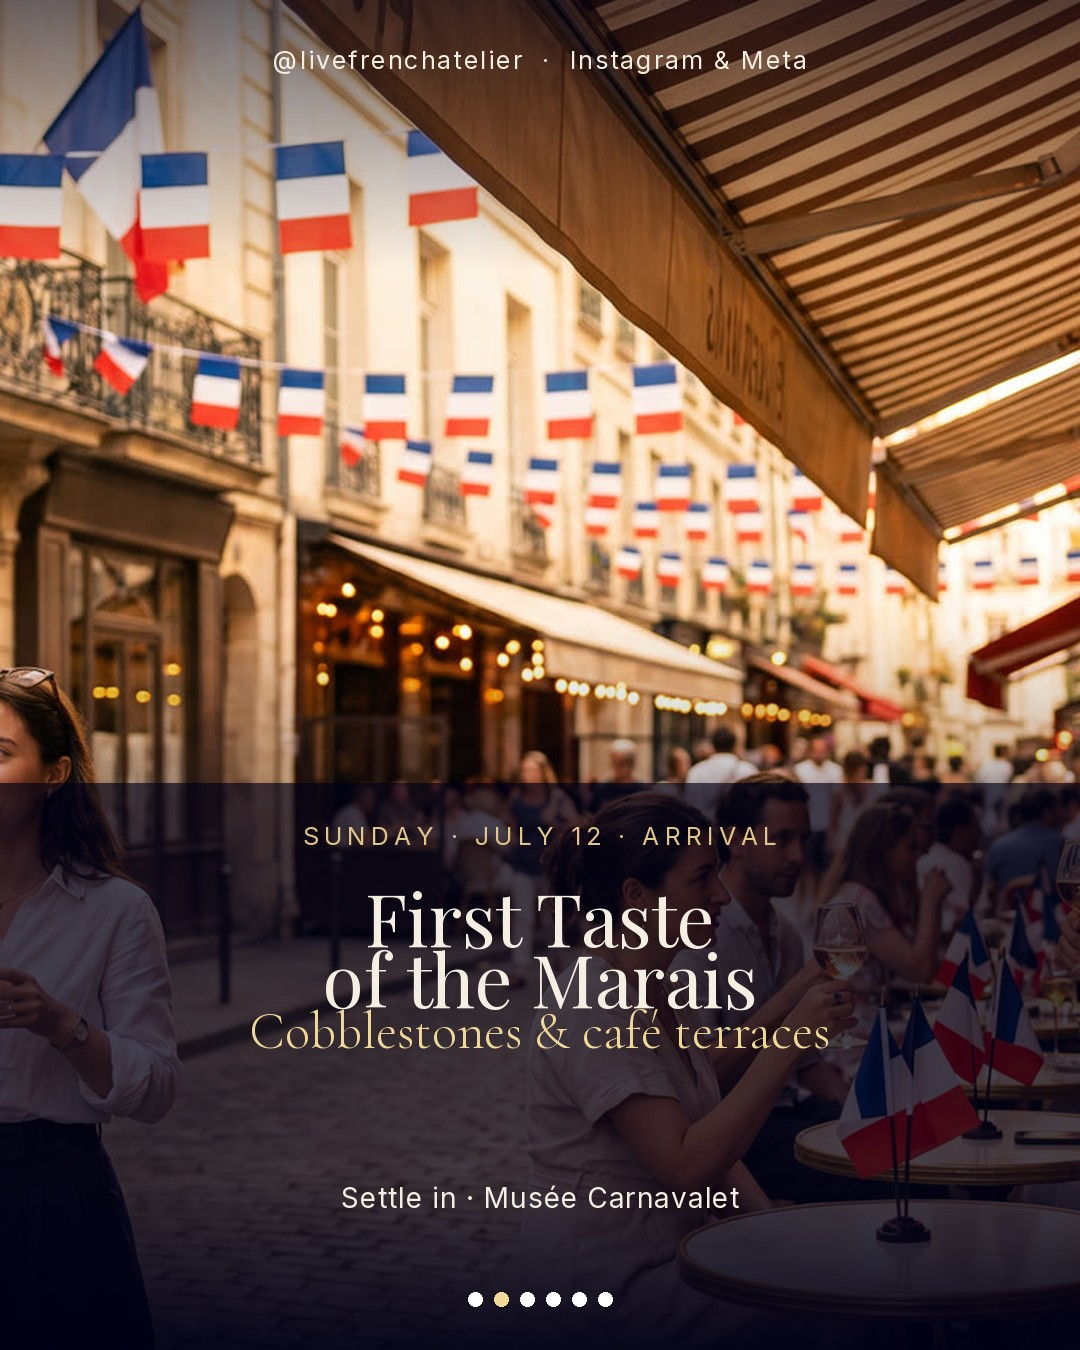
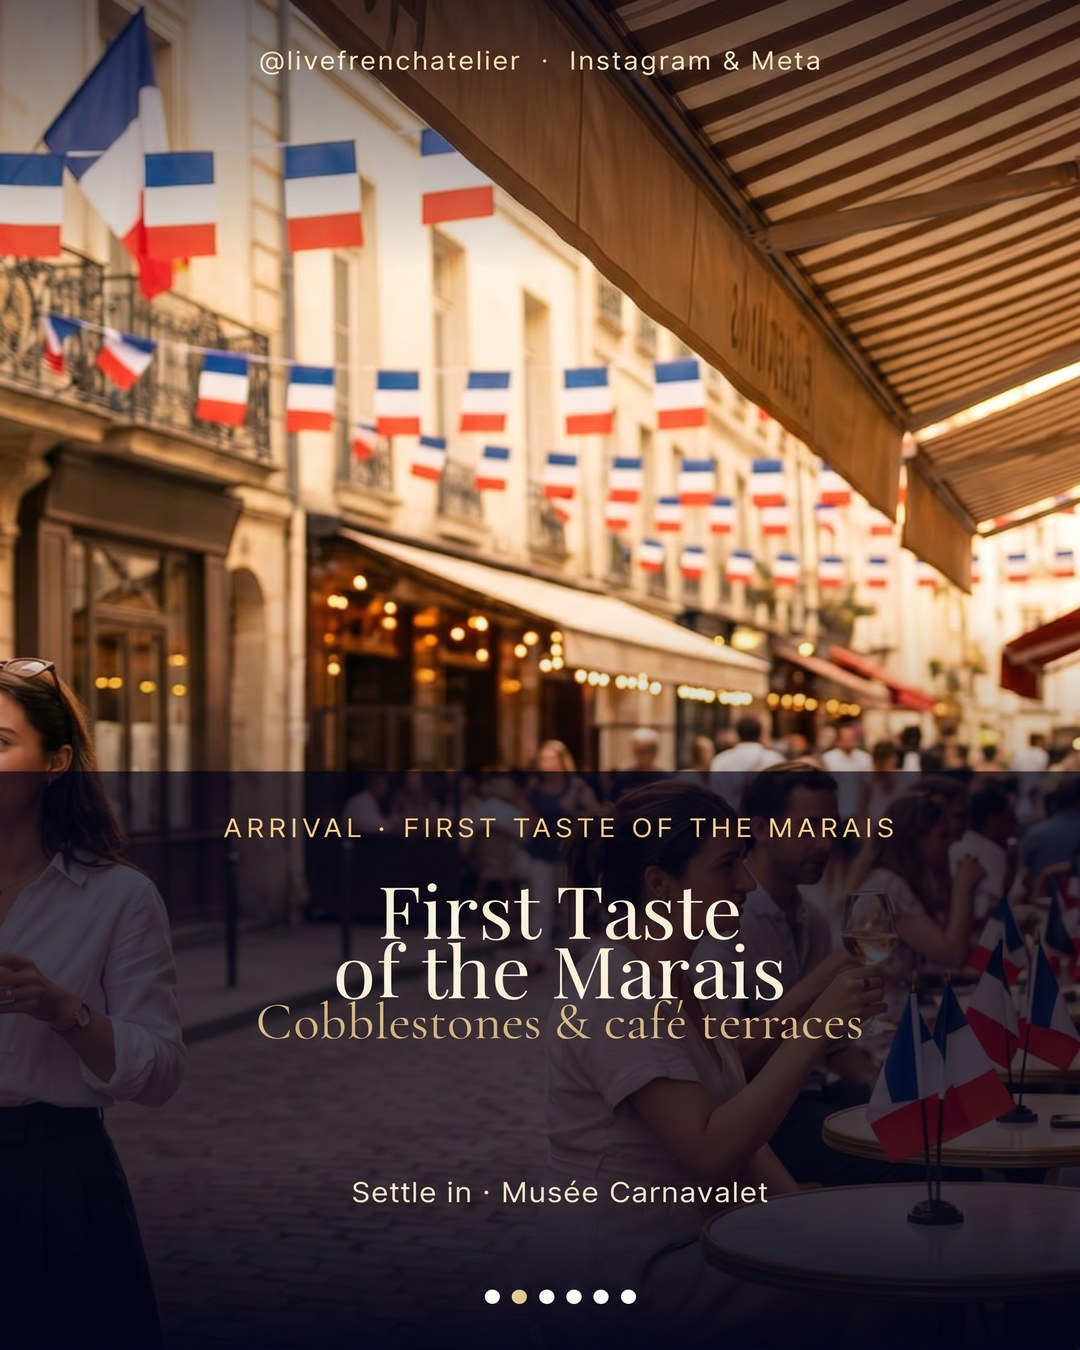
AdKit carousel: enlarge slides + add full-size lightbox for readability; fix slide 2 (drop wrong Jul 12 date) and slide 6 (upload flow)

diff --git a/adkit.html b/adkit.html
@@ -112,11 +112,31 @@
   .strip{display:flex;gap:14px;overflow-x:auto;padding-bottom:10px;scroll-snap-type:x mandatory}
   .strip::-webkit-scrollbar{height:8px}
   .strip::-webkit-scrollbar-thumb{background:var(--navy-line);border-radius:8px}
-  .strip .slide{flex:none;width:200px;scroll-snap-align:start;border-radius:14px;overflow:hidden;
-    border:1px solid var(--navy-line);position:relative}
+  .strip .slide{flex:none;width:340px;max-width:80vw;scroll-snap-align:start;border-radius:16px;overflow:hidden;
+    border:1px solid var(--navy-line);position:relative;cursor:zoom-in;transition:transform .25s var(--ease),border-color .25s var(--ease)}
+  .strip .slide:hover{transform:translateY(-4px);border-color:rgba(224,198,140,.5)}
   .strip .slide img{width:100%;display:block;aspect-ratio:4/5;object-fit:cover}
-  .strip .slide .num{position:absolute;top:8px;left:8px;font-family:var(--mono);font-size:11px;color:var(--navy);
-    background:var(--gold-bright);border-radius:6px;padding:3px 7px;font-weight:600}
+  .strip .slide .num{position:absolute;top:10px;left:10px;font-family:var(--mono);font-size:12px;color:var(--navy);
+    background:var(--gold-bright);border-radius:6px;padding:3px 8px;font-weight:600;z-index:2}
+  .strip .slide .zoom{position:absolute;bottom:10px;right:10px;display:flex;align-items:center;gap:5px;
+    font-family:var(--mono);font-size:10.5px;letter-spacing:.04em;color:#fff;background:rgba(5,5,15,.62);
+    backdrop-filter:blur(6px);border:1px solid rgba(255,255,255,.18);border-radius:8px;padding:5px 9px;z-index:2}
+  .strip .slide .zoom svg{width:12px;height:12px}
+  @media(max-width:560px){.strip .slide{width:280px}}
+  /* carousel lightbox */
+  .lb{position:fixed;inset:0;z-index:200;display:none;align-items:center;justify-content:center;
+    background:rgba(2,2,12,.92);backdrop-filter:blur(8px);padding:24px}
+  .lb.open{display:flex}
+  .lb img{max-width:min(92vw,560px);max-height:90vh;width:auto;height:auto;border-radius:14px;
+    box-shadow:0 30px 80px -20px rgba(0,0,0,.8);border:1px solid rgba(224,198,140,.3)}
+  .lb .lb-close{position:absolute;top:20px;right:24px;width:42px;height:42px;border-radius:50%;border:0;cursor:pointer;
+    background:rgba(255,255,255,.1);color:#fff;font-size:22px;line-height:1;display:flex;align-items:center;justify-content:center}
+  .lb .lb-close:hover{background:var(--rouge)}
+  .lb .lb-nav{position:absolute;top:50%;transform:translateY(-50%);width:48px;height:48px;border-radius:50%;border:0;cursor:pointer;
+    background:rgba(255,255,255,.1);color:#fff;font-size:24px;display:flex;align-items:center;justify-content:center}
+  .lb .lb-nav:hover{background:rgba(224,198,140,.25)}
+  .lb .lb-prev{left:24px}.lb .lb-next{right:24px}
+  .lb .lb-count{position:absolute;bottom:22px;left:0;right:0;text-align:center;font-family:var(--mono);font-size:12px;color:rgba(255,255,255,.65)}
 
   /* popup feature row */
   .feature{display:grid;grid-template-columns:1.05fr 1fr;gap:36px;align-items:center;
@@ -294,13 +314,14 @@
       <h2>Carousel</h2>
       <span class="fmt">4:5 · 1080×1350 · 6 slides · JPG</span>
     </div>
+    <p class="reveal" style="font-size:13.5px;color:rgba(243,239,233,.6);margin:-10px 0 18px;font-family:var(--mono);letter-spacing:.03em">Tap any slide to view it full-size &amp; readable.</p>
     <div class="strip reveal">
-      <div class="slide"><span class="num">1</span><img src="assets/carousel-1.jpg?v=4" alt="Carousel slide 1 — Win a free flight"></div>
-      <div class="slide"><span class="num">2</span><img src="assets/carousel-2.jpg?v=4" alt="Carousel slide 2 — Arrival in the Marais"></div>
-      <div class="slide"><span class="num">3</span><img src="assets/carousel-3.jpg?v=4" alt="Carousel slide 3 — Seine sunset and fireworks"></div>
-      <div class="slide"><span class="num">4</span><img src="assets/carousel-4.jpg?v=4" alt="Carousel slide 4 — Bastille Day air shows"></div>
-      <div class="slide"><span class="num">5</span><img src="assets/carousel-5.jpg?v=4" alt="Carousel slide 5 — Montmartre and the Impressionists"></div>
-      <div class="slide"><span class="num">6</span><img src="assets/carousel-6.jpg?v=4" alt="Carousel slide 6 — How to enter"></div>
+      <div class="slide" onclick="openLB(0)"><span class="num">1</span><span class="zoom"><svg viewBox="0 0 24 24" fill="none" stroke="currentColor" stroke-width="2.2" stroke-linecap="round"><circle cx="11" cy="11" r="7"/><path d="M21 21l-4.3-4.3M11 8v6M8 11h6"/></svg>Enlarge</span><img src="assets/carousel-1.jpg?v=5" alt="Carousel slide 1 — Win a free flight"></div>
+      <div class="slide" onclick="openLB(1)"><span class="num">2</span><span class="zoom"><svg viewBox="0 0 24 24" fill="none" stroke="currentColor" stroke-width="2.2" stroke-linecap="round"><circle cx="11" cy="11" r="7"/><path d="M21 21l-4.3-4.3M11 8v6M8 11h6"/></svg>Enlarge</span><img src="assets/carousel-2.jpg?v=5" alt="Carousel slide 2 — Arrival in the Marais"></div>
+      <div class="slide" onclick="openLB(2)"><span class="num">3</span><span class="zoom"><svg viewBox="0 0 24 24" fill="none" stroke="currentColor" stroke-width="2.2" stroke-linecap="round"><circle cx="11" cy="11" r="7"/><path d="M21 21l-4.3-4.3M11 8v6M8 11h6"/></svg>Enlarge</span><img src="assets/carousel-3.jpg?v=5" alt="Carousel slide 3 — Seine sunset and fireworks"></div>
+      <div class="slide" onclick="openLB(3)"><span class="num">4</span><span class="zoom"><svg viewBox="0 0 24 24" fill="none" stroke="currentColor" stroke-width="2.2" stroke-linecap="round"><circle cx="11" cy="11" r="7"/><path d="M21 21l-4.3-4.3M11 8v6M8 11h6"/></svg>Enlarge</span><img src="assets/carousel-4.jpg?v=5" alt="Carousel slide 4 — Bastille Day air shows"></div>
+      <div class="slide" onclick="openLB(4)"><span class="num">5</span><span class="zoom"><svg viewBox="0 0 24 24" fill="none" stroke="currentColor" stroke-width="2.2" stroke-linecap="round"><circle cx="11" cy="11" r="7"/><path d="M21 21l-4.3-4.3M11 8v6M8 11h6"/></svg>Enlarge</span><img src="assets/carousel-5.jpg?v=5" alt="Carousel slide 5 — Montmartre and the Impressionists"></div>
+      <div class="slide" onclick="openLB(5)"><span class="num">6</span><span class="zoom"><svg viewBox="0 0 24 24" fill="none" stroke="currentColor" stroke-width="2.2" stroke-linecap="round"><circle cx="11" cy="11" r="7"/><path d="M21 21l-4.3-4.3M11 8v6M8 11h6"/></svg>Enlarge</span><img src="assets/carousel-6.jpg?v=5" alt="Carousel slide 6 — How to enter"></div>
     </div>
     <div style="margin-top:20px">
       <a class="dlbtn" style="max-width:280px" href="assets/french_atelier_adkit.zip?v=4" download><svg viewBox="0 0 24 24" fill="none" stroke="currentColor" stroke-width="2.2" stroke-linecap="round"><path d="M12 3v12m0 0l-5-5m5 5l5-5M5 21h14"/></svg>Download all 6 slides</a>
@@ -425,6 +446,15 @@ Tag every frame on-screen: @livefrenchatelier</pre>
   </div>
 </footer>
 
+<!-- carousel lightbox -->
+<div class="lb" id="lb" role="dialog" aria-modal="true" aria-label="Carousel slide preview">
+  <button class="lb-close" aria-label="Close" onclick="closeLB()">&times;</button>
+  <button class="lb-nav lb-prev" aria-label="Previous slide" onclick="event.stopPropagation();stepLB(-1)">&#8249;</button>
+  <img id="lbImg" src="" alt="Carousel slide full size">
+  <button class="lb-nav lb-next" aria-label="Next slide" onclick="event.stopPropagation();stepLB(1)">&#8250;</button>
+  <div class="lb-count" id="lbCount"></div>
+</div>
+
 <script>
   // reveal on scroll (progressive enhancement). Flag JS so hidden state only
   // applies when this script runs. Reveal anything already in view immediately,
@@ -444,6 +474,16 @@ Tag every frame on-screen: @livefrenchatelier</pre>
     const t=document.getElementById(id).innerText;
     navigator.clipboard.writeText(t).then(()=>{btn.textContent='Copied ✓';setTimeout(()=>btn.textContent='Copy',1800)});
   }
+  // carousel lightbox
+  var lbSrcs=[...document.querySelectorAll('#carousel .strip .slide img')].map(function(i){return i.getAttribute('src')});
+  var lbIdx=0;
+  var lbEl=document.getElementById('lb'), lbImg=document.getElementById('lbImg'), lbCount=document.getElementById('lbCount');
+  function paintLB(){ lbImg.src=lbSrcs[lbIdx]; lbCount.textContent=(lbIdx+1)+' / '+lbSrcs.length; }
+  function openLB(i){ lbIdx=i; paintLB(); lbEl.classList.add('open'); document.body.style.overflow='hidden'; }
+  function closeLB(){ lbEl.classList.remove('open'); document.body.style.overflow=''; }
+  function stepLB(d){ lbIdx=(lbIdx+d+lbSrcs.length)%lbSrcs.length; paintLB(); }
+  lbEl.addEventListener('click',function(e){ if(e.target===lbEl) closeLB(); });
+  document.addEventListener('keydown',function(e){ if(!lbEl.classList.contains('open'))return; if(e.key==='Escape')closeLB(); if(e.key==='ArrowRight')stepLB(1); if(e.key==='ArrowLeft')stepLB(-1); });
 </script>
 </body>
 </html>

diff --git a/index.html b/index.html
@@ -190,6 +190,11 @@ section{position:relative}
 .thumb img{width:100%;height:100%;object-fit:cover;display:block}
 .thumb .rm{position:absolute;top:5px;right:5px;width:22px;height:22px;border-radius:50%;border:0;background:rgba(0,0,20,.78);color:#fff;font-size:14px;line-height:1;cursor:pointer;display:flex;align-items:center;justify-content:center;transition:background .2s}
 .thumb .rm:hover{background:var(--rouge)}
+.thumb.bad{border-color:var(--rouge)}
+.thumb.bad img{opacity:.5;filter:grayscale(.4)}
+.thumb .badge{position:absolute;left:0;right:0;bottom:0;padding:4px 6px;font-size:9.5px;font-weight:700;letter-spacing:.02em;text-align:center;color:#fff;background:var(--rouge);text-transform:uppercase}
+.thumb.checking::after{content:"";position:absolute;top:50%;left:50%;width:18px;height:18px;margin:-9px 0 0 -9px;border-radius:50%;border:2px solid rgba(255,255,255,.25);border-top-color:#fff;animation:spin .7s linear infinite}
+@keyframes spin{to{transform:rotate(360deg)}}
 .up-hint{display:flex;align-items:center;gap:.5rem;font-size:.82rem;line-height:1.5}
 .up-hint.ok{color:var(--gold-bright)}
 .up-hint.warn{color:var(--on-dark-soft)}